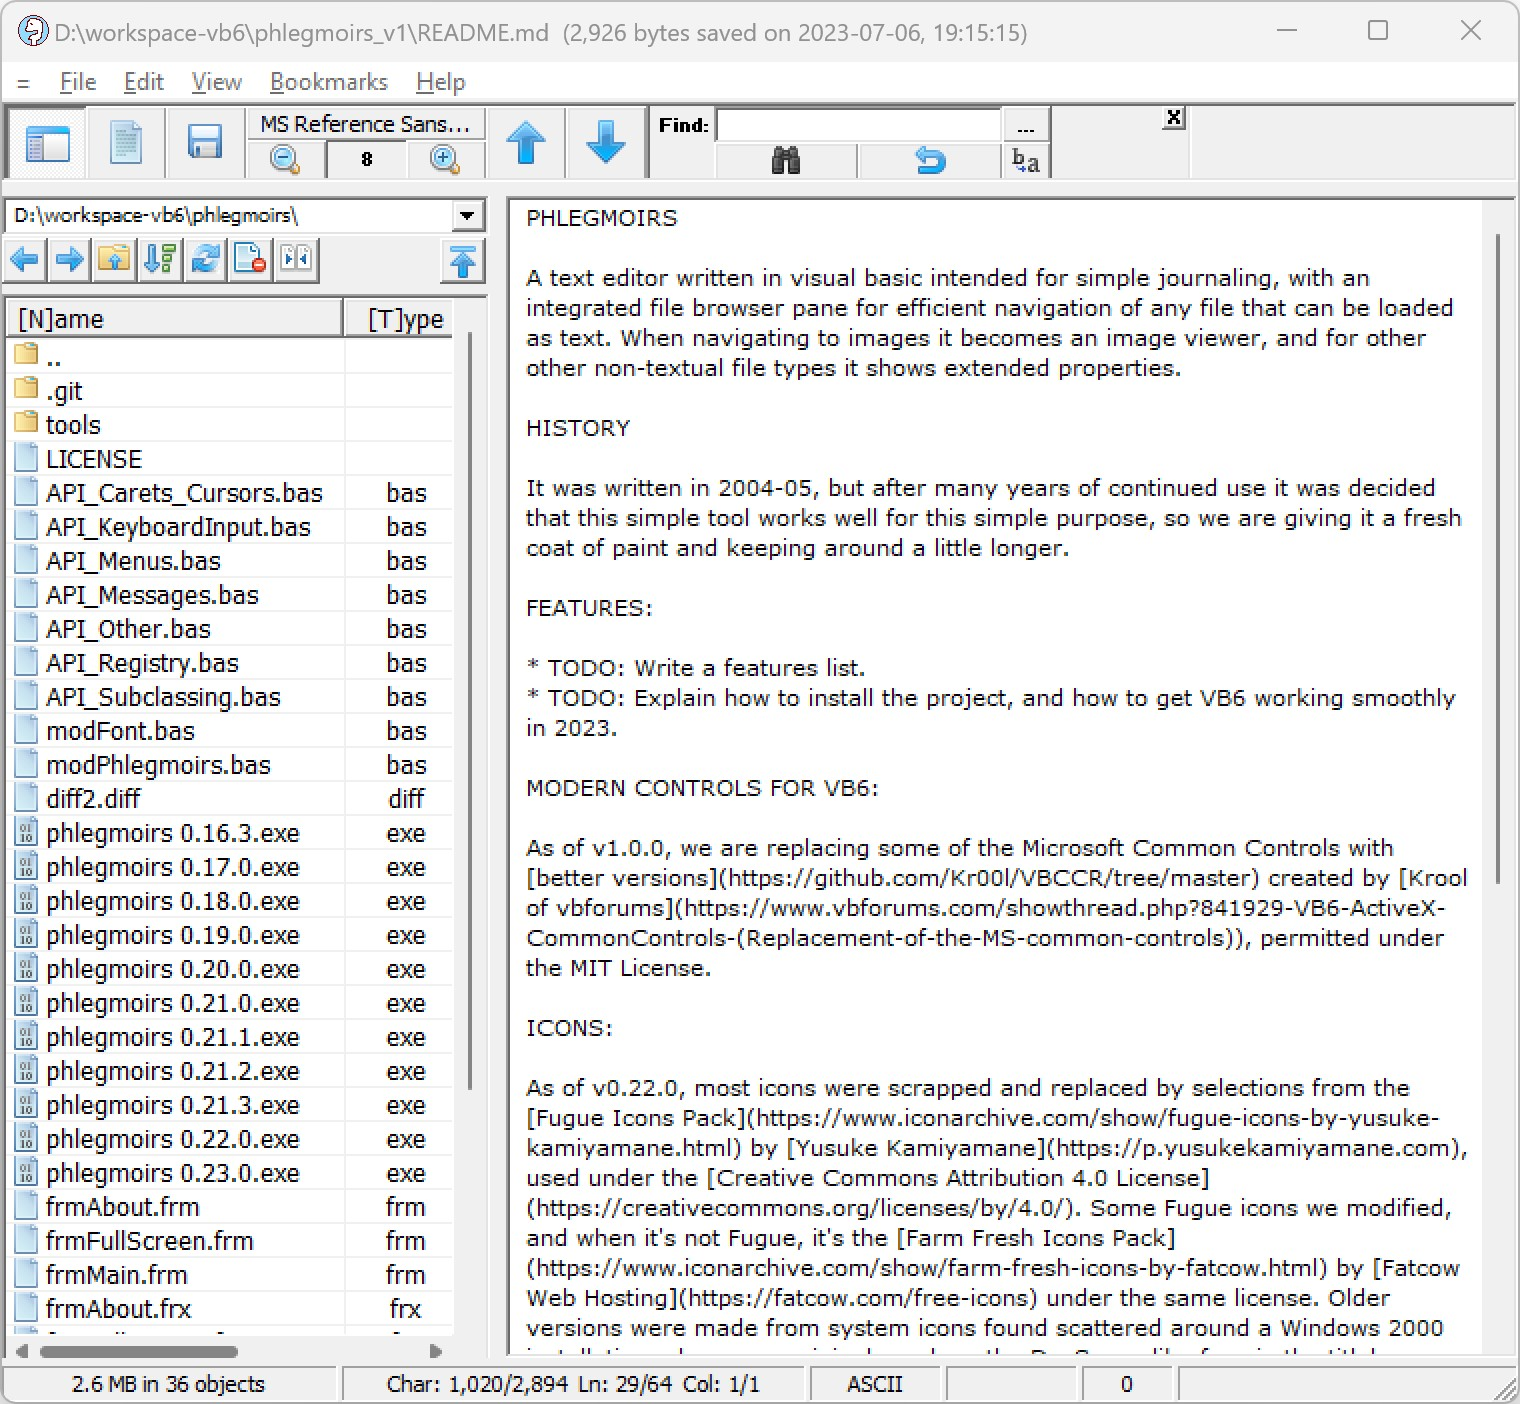
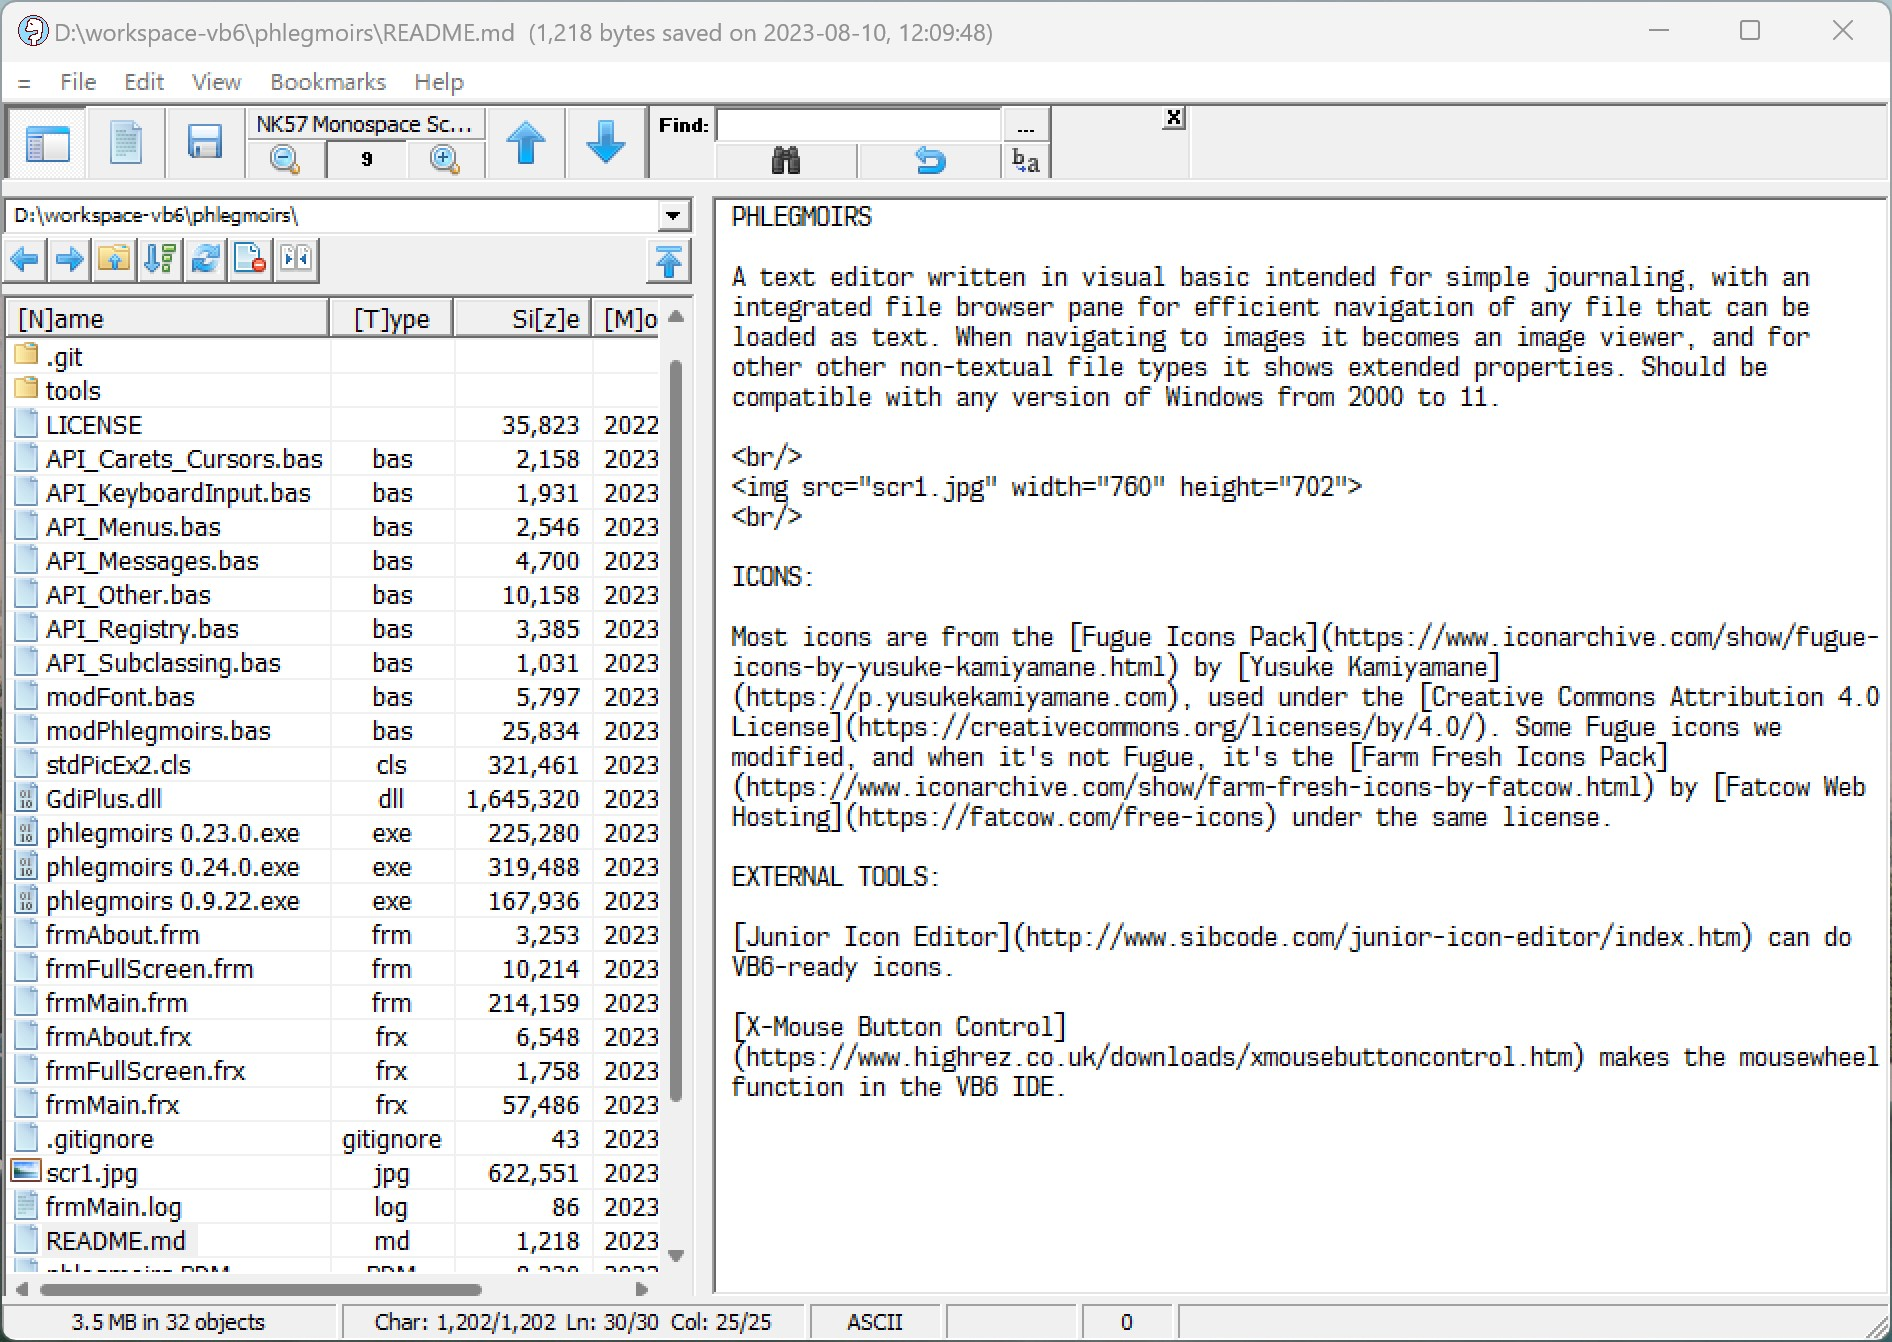
Update desc

diff --git a/README.md b/README.md
@@ -1,29 +1,17 @@
 PHLEGMOIRS
 
-A text editor written in visual basic intended for simple journaling, with an integrated file browser pane for efficient navigation of any file that can be loaded as text. When navigating to images it becomes an image viewer, and for other other non-textual file types it shows extended properties.
-
-HISTORY
-
-Phlegmoirs was first written in 2004-05, and after eons of continued use it was acknowledged that this simple tool works for this simple purpose, so we are giving it a fresh coat of paint and keeping it around.
+A text editor written in visual basic intended for simple journaling, with an integrated file browser pane for efficient navigation of any file that can be loaded as text. When navigating to images it becomes an image viewer, and for other other non-textual file types it shows extended properties. Should be compatible with any version of Windows from 2000 to 11.
 
 <br/>
 <img src="scr1.jpg" width="760" height="702">
 <br/>
 
-MODERN CONTROLS FOR VB6:
-
-As of v1.0.0, we are replacing some of the Microsoft Common Controls with [better versions](https://github.com/Kr00l/VBCCR/tree/master) created by [Krool of vbforums](https://www.vbforums.com/showthread.php?841929-VB6-ActiveX-CommonControls-(Replacement-of-the-MS-common-controls)), as permitted under the MIT License.
-
 ICONS:
 
-As of v0.22.0, most icons are selections from the [Fugue Icons Pack](https://www.iconarchive.com/show/fugue-icons-by-yusuke-kamiyamane.html) by [Yusuke Kamiyamane](https://p.yusukekamiyamane.com), used under the [Creative Commons Attribution 4.0 License](https://creativecommons.org/licenses/by/4.0/). Some Fugue icons we modified, and when it's not Fugue, it's the [Farm Fresh Icons Pack](https://www.iconarchive.com/show/farm-fresh-icons-by-fatcow.html) by [Fatcow Web Hosting](https://fatcow.com/free-icons) under the same license. Older versions of Phlegmoirs were made with system icons found scattered around a Windows 2000 installation, plus originals such as the Dr. Seuss-like face in the titlebar.
+Most icons are from the [Fugue Icons Pack](https://www.iconarchive.com/show/fugue-icons-by-yusuke-kamiyamane.html) by [Yusuke Kamiyamane](https://p.yusukekamiyamane.com), used under the [Creative Commons Attribution 4.0 License](https://creativecommons.org/licenses/by/4.0/). Some Fugue icons we modified, and when it's not Fugue, it's the [Farm Fresh Icons Pack](https://www.iconarchive.com/show/farm-fresh-icons-by-fatcow.html) by [Fatcow Web Hosting](https://fatcow.com/free-icons) under the same license.
 
 EXTERNAL TOOLS:
 
-Modifying those icons in a way that looked nice in VB6 would have been futile without the free [Junior Icon Editor](http://www.sibcode.com/junior-icon-editor/index.htm).
+[Junior Icon Editor](http://www.sibcode.com/junior-icon-editor/index.htm) can do VB6-ready icons.
 
-[MZ-Tools 8 for VB 6.0](https://www.mztools.com) adds navigation features to the Visual Basic IDE. It also does code quality analysis, and we have some configs here in the tools folder adapted to our naming conventions.
-
-[X-Mouse Button Control](https://www.highrez.co.uk/downloads/xmousebuttoncontrol.htm) makes the mousewheel function in the IDE.
-
-(With some setup, VB6 is surprisingly usable in 2023. It only requires *not stopping to wonder if you should*.)
+[X-Mouse Button Control](https://www.highrez.co.uk/downloads/xmousebuttoncontrol.htm) makes the mousewheel function in the VB6 IDE.
